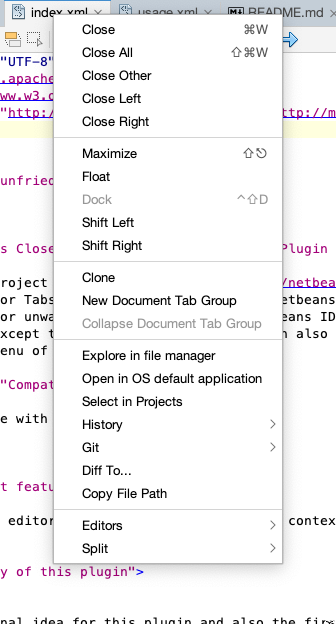
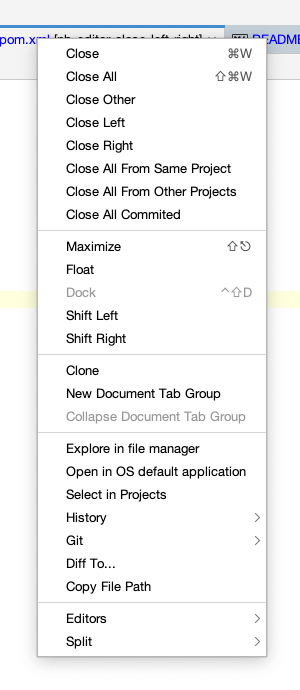
Updated documentation and screenshots

diff --git a/README.md b/README.md
@@ -15,10 +15,14 @@ What is Close Editor Tabs Left and Right Plugin for Netbeans
 ----------------------------------------------------
 This plugin helps you to easily close unused or unwanted editor tabs. Instead of either
 close all tabs or all tabs except the currently selected you can also close the tabs
-right or left from the context menu of a selected tab at once.
+right or left, the ones either belong or not belong to the project from the context
+menu of a selected tab at once or even all tabs that have not been changed since the
+last commit to your version control system (Git, SVN and Mercurial supported).
 
 ### Features
-*   Close all editor tabs right or left from the context menu of a selected tab at once
+*   Close all editor tabs from the context menu of a selected tab right or left of the selected tab at once
+*   Close all editor tabs from the context menu of a selected tab which either belong or not belong to the project of the selected tab at once
+*   Close all editor tabs from the context menu of a selected tab which did not change since the last commit to your version control system (Git, SVN and Mercurial supported)
 
 Compatibility
 -------------
